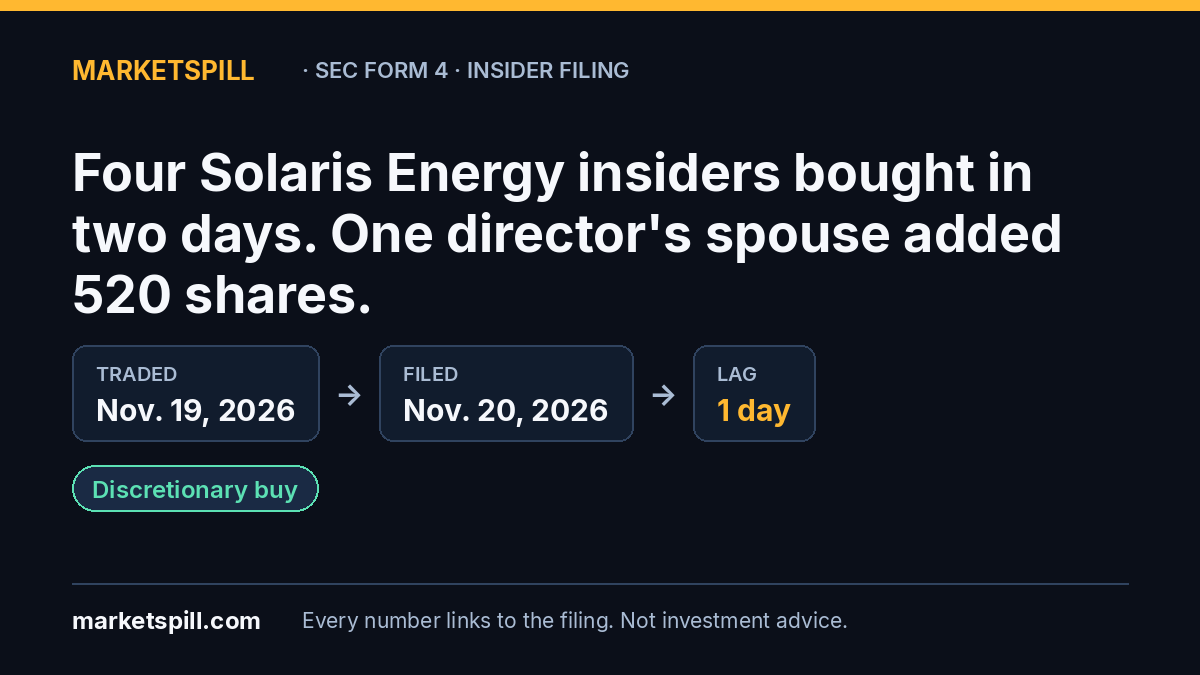
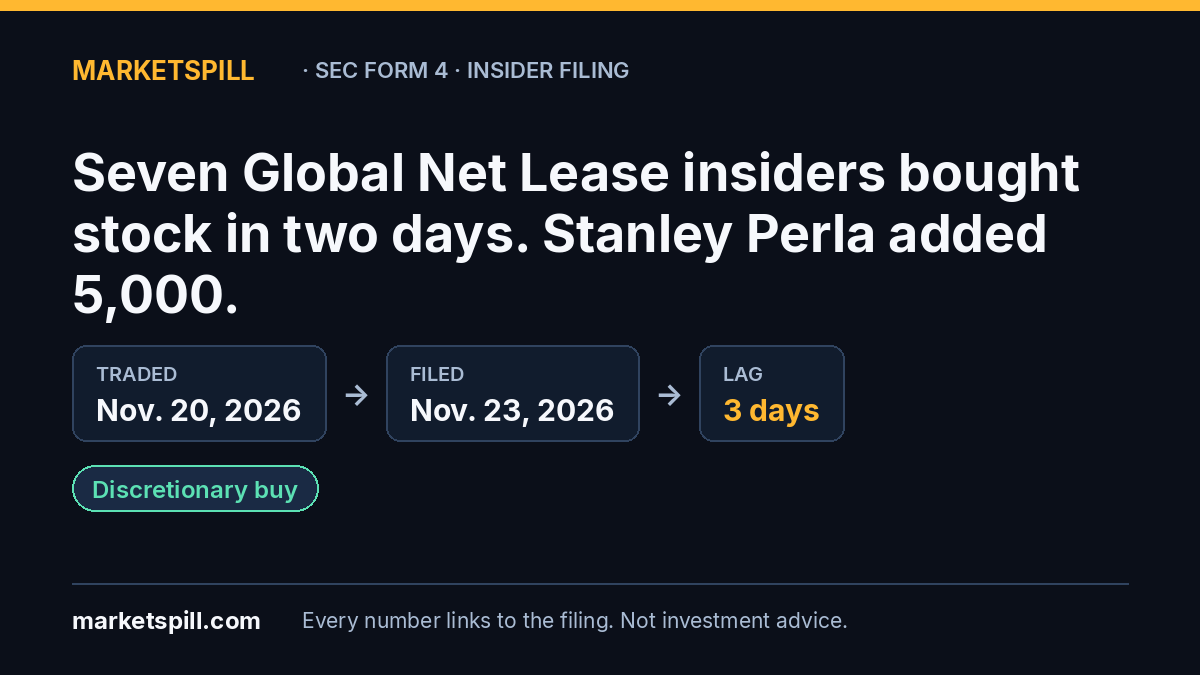
index 2026-11-23T13:30:50Z

Changed region(s): [[0.0617, 0.2178, 0.8942, 0.4667], [0.1233, 0.5289, 0.7092, 0.6533]]

diff --git a/latest/index.html b/latest/index.html
@@ -1,1 +1,1 @@
-<!doctype html><meta charset="utf-8"><title>MarketSpill: latest story</title><meta http-equiv="refresh" content="0;url=https://www.marketspill.com/p/solaris-energy-sei-insider-cluster-buys-teague"><link rel="canonical" href="https://www.marketspill.com/p/solaris-energy-sei-insider-cluster-buys-teague"><p>Redirecting to <a href="https://www.marketspill.com/p/solaris-energy-sei-insider-cluster-buys-teague">Four Solaris Energy insiders bought in two days. One director's spouse added 520 shares.</a>.</p>
+<!doctype html><meta charset="utf-8"><title>MarketSpill: latest story</title><meta http-equiv="refresh" content="0;url=https://www.marketspill.com/p/global-net-lease-gnl-perla-buy-seven-insider-cluster"><link rel="canonical" href="https://www.marketspill.com/p/global-net-lease-gnl-perla-buy-seven-insider-cluster"><p>Redirecting to <a href="https://www.marketspill.com/p/global-net-lease-gnl-perla-buy-seven-insider-cluster">Seven Global Net Lease insiders bought stock in two days. Stanley Perla added 5,000.</a>.</p>
